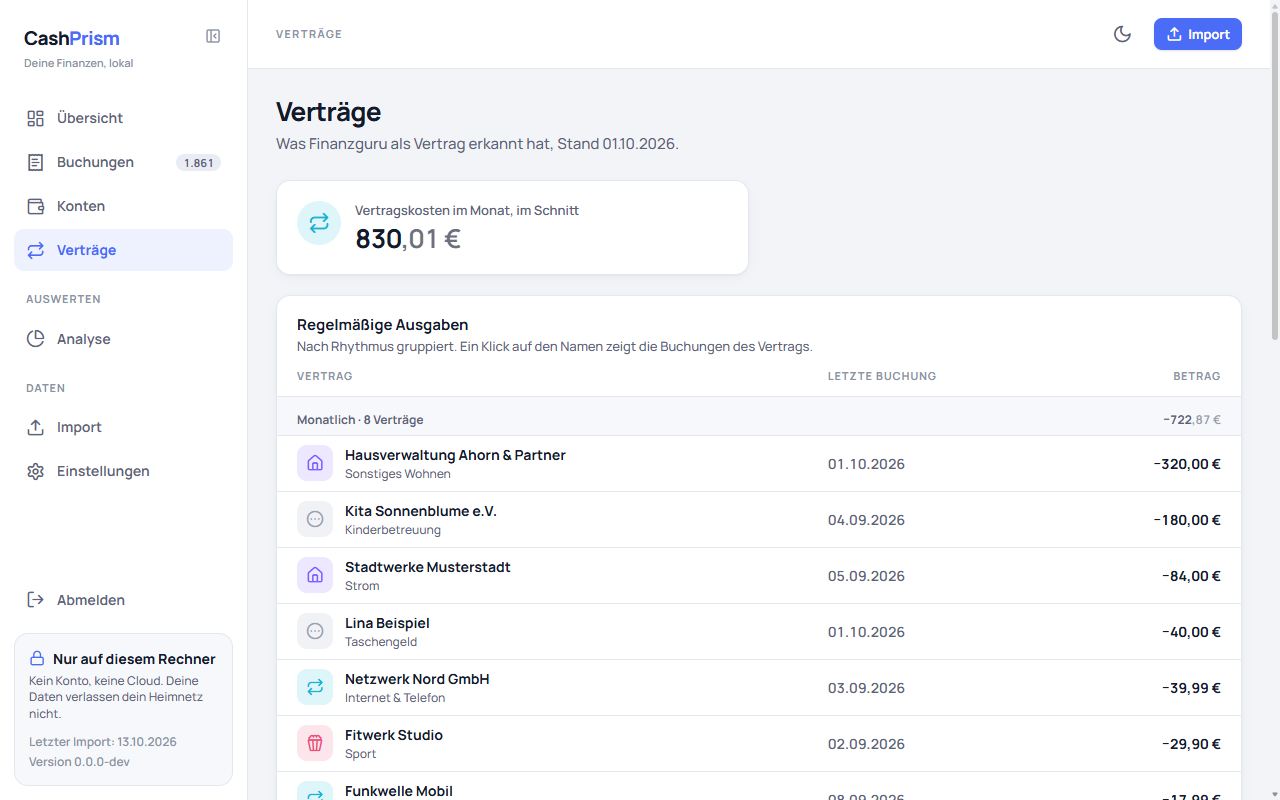
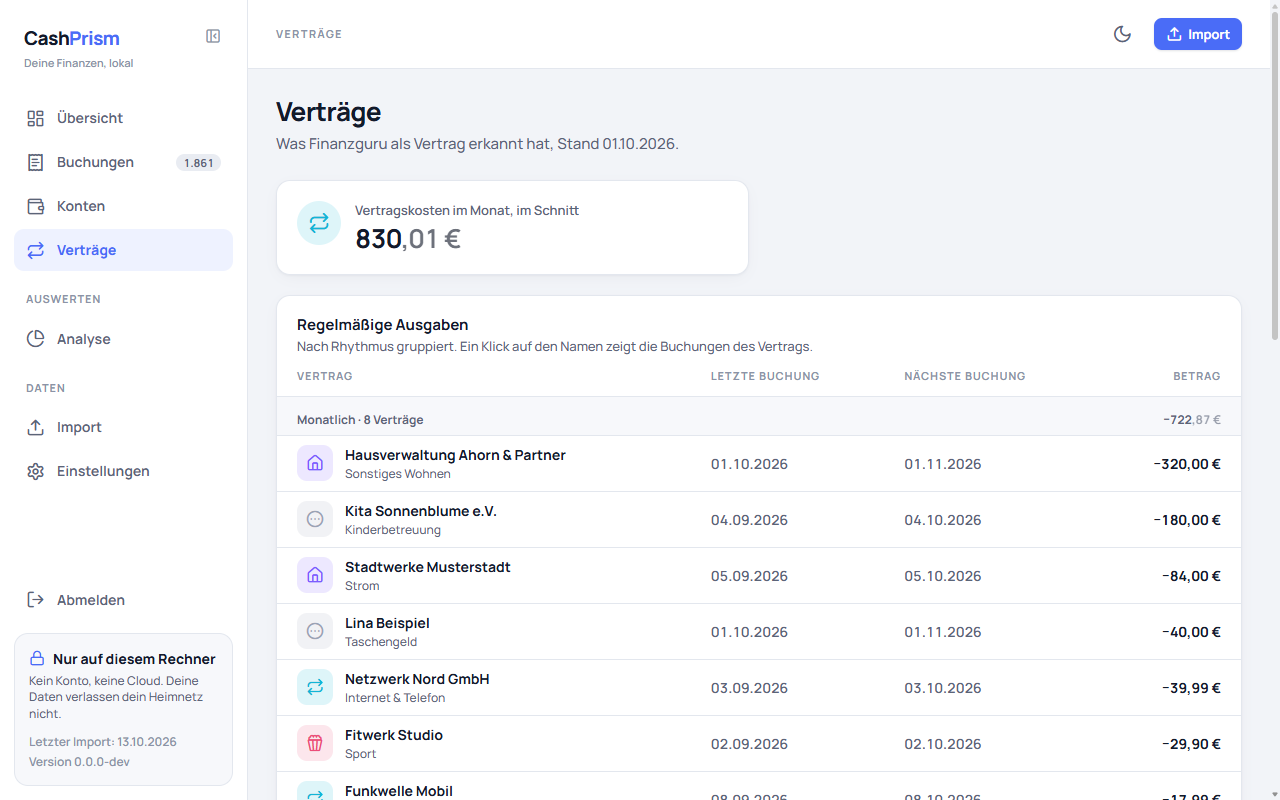
docs: describe contract forecasts (#171)
- Describe next booking, overdue marker and upcoming card in the guide
- Retake vertraege.png and add demnaechst.png to the recipe
- Describe forecasts and dismissals in ui.md and architecture.md
- Move the contracts page entry from 0.1.0 to Unreleased

diff --git a/docs/benutzung.md b/docs/benutzung.md
@@ -296,6 +296,15 @@ Buchung vom frei verfügbaren Einkommen ausnimmt, spielt hier keine Rolle.
   Buchungen dieser Kategorie in diesem Monat, Umbuchungen ausgeblendet; ihr
   *Saldo* ist dann genau der Betrag aus dem Ring. *Übrige* öffnet nichts, weil
   es für mehrere Kategorien steht.
+- **Demnächst:** die Vertragsbuchungen, die in den 30 Tagen nach dem Export
+  erwartet werden, mit Tag und Betrag — wie die Spalte *Nächste Buchung* auf
+  der Seite [Verträge](#die-verträge) sie berechnet. Überfällige Buchungen
+  stehen oben, die am längsten überfälligen zuerst, darunter der Rest nach
+  Datum. Auch eine Buchung, die schon fällig, aber noch nicht überfällig ist,
+  steht hier. Einen Hinweis ausblenden kannst du nur auf *Verträge*; *Alle
+  Verträge* führt dorthin.
+
+![Die Karte Demnächst mit den Vertragsbuchungen der nächsten 30 Tage, je mit Tag und Betrag](images/benutzung/demnaechst.png)
 
 ## Die Analyse
 
@@ -618,7 +627,7 @@ Schalter wieder aus, siehst du die Karten in ihrer neuen Ordnung.
 
 ## Die Verträge
 
-![Die Verträge: oben die durchschnittlichen Vertragskosten im Monat, darunter die regelmäßigen Ausgaben nach Rhythmus gruppiert](images/benutzung/vertraege.png)
+![Die Verträge: oben die durchschnittlichen Vertragskosten im Monat, darunter die regelmäßigen Ausgaben nach Rhythmus gruppiert, je Vertrag mit der nächsten erwarteten Buchung](images/benutzung/vertraege.png)
 
 *Verträge* zeigt, was Finanzguru in deinen Buchungen als Vertrag erkannt hat —
 dieselben Verträge, die du in der App siehst. CashPrism erkennt selbst nichts
@@ -634,15 +643,28 @@ und ändert nichts daran.
   einem eigenen Abschnitt, etwa dein Gehalt oder die monatliche Sparrate auf
   ein eigenes Konto.
 - **Eine Zeile** zeigt den Namen, die Unterkategorie, den Tag der letzten
-  Buchung und ihren Betrag. Ändert sich der Betrag eines Vertrags, steht hier
-  der neueste. Ein Klick auf den Namen öffnet die
-  [Buchungsliste](#die-buchungsliste) mit allen Buchungen dieses Vertrags.
+  Buchung, den Tag der nächsten und den Betrag der letzten. Ändert sich der
+  Betrag eines Vertrags, steht hier der neueste. Ein Klick auf den Namen
+  öffnet die [Buchungsliste](#die-buchungsliste) mit allen Buchungen dieses
+  Vertrags.
+- **Nächste Buchung:** der Tag der letzten Buchung plus der Rhythmus des
+  Vertrags in Kalendermonaten — bei einem monatlichen Vertrag vom 31. Januar
+  also der letzte Tag im Februar. CashPrism erwartet denselben Betrag wie bei
+  der letzten Buchung. Der Export enthält keine Vorhersage; das ist
+  berechnet, so wie es auch die App tut.
+- **Überfällig:** Ist die nächste Buchung mehr als 5 Tage nach ihrem Tag
+  ausgeblieben, gemessen am Datum des Exports, steht darunter *x Tage
+  überfällig*. Die 5 Tage gelten für jeden Rhythmus: Vertragsbuchungen kommen
+  oft ein paar Tage später als erwartet, aber kaum je später als vier Tage.
+  Mit dem ✕ im Hinweis blendest du ihn aus — nur für diesen erwarteten Tag.
+  Bleibt auch die übernächste Buchung aus, erscheint der Hinweis wieder.
 - **Vermutlich beendet** steht ganz unten und ist zugeklappt. Dort landet ein
   Vertrag, bei dem mindestens zwei fällige Zahlungen ausgeblieben sind: bei
   einem monatlichen Vertrag also, wenn die letzte Buchung mehr als zwei Monate
   vor dem Export liegt. Finanzguru meldet im Export kein Vertragsende, deshalb
   ist das nur abgeleitet. Kommt wieder eine Buchung, steht der Vertrag wieder
-  oben.
+  oben. Von einem vermutlich beendeten Vertrag erwartet CashPrism keine
+  Buchung mehr.
 
 **Einen Vertrag entfernen oder kündigen** machst du in Finanzguru. Entfernst du
 dort einen Vertrag, ist er nach dem nächsten Import auch hier verschwunden.
@@ -673,8 +695,9 @@ löschen noch wiederholen, und ein Import lässt sich nicht rückgängig machen.
 
 ![Die Einstellungen mit der Rückfrage vor dem Löschen aller Daten](images/benutzung/alle-daten-loeschen.png)
 
-Unter *Einstellungen* löscht *Alle Daten löschen* jede gespeicherte Buchung
-und jeden bisherigen Import. Danach baut ein neuer Import alles wieder auf, denn
+Unter *Einstellungen* löscht *Alle Daten löschen* jede gespeicherte Buchung,
+jeden bisherigen Import und jeden ausgeblendeten Hinweis auf einen
+[überfälligen Vertrag](#die-verträge). Danach baut ein neuer Import alles wieder auf, denn
 jeder Finanzguru-Export enthält deine ganze Historie. Das ist der Weg, wenn eine
 neue Version von CashPrism mehr aus dem Export speichert als die alte: löschen,
 dann den neuesten Export importieren.

diff --git a/docs/ui.md b/docs/ui.md
@@ -427,10 +427,10 @@ on their own, they broke three and one beside the drawer at 1280 px.
 
 `Pages/Contracts.razor` lists what Finanzguru recognised as a contract,
 described by each contract's newest booking — name, sub-category, day and
-amount — through `ContractOverviewReader`. The design has contracts as a tab of
-its reports, with a next payment date and a price-rise badge; both need a
-forecast, which is a later step, so the page stands on its own in the
-navigation instead.
+amount — and the day its next booking is expected, through
+`ContractOverviewReader`. The design has contracts as a tab of its reports,
+with a next payment date and a price-rise badge; the page stands on its own in
+the navigation instead, and has no price-rise badge.
 
 - **One tile on top**, the average monthly cost: every running spending
   contract spread over a month by its interval (`Contract.MonthlyAmountInCents`).
@@ -449,9 +449,28 @@ navigation instead.
   — so the heading says *Vermutlich*.
 - **The name links to the booking list** filtered to the contract,
   `/bookings?contract=<id>`.
+- **The next booking** is a column of its own, *Nächste Buchung*, holding the
+  date only: the amount expected is the newest booking's, which the amount
+  column already shows. The rule is `Contract.NextBookingOn`, the newest
+  booking plus one interval in calendar months; the folded section of
+  presumably ended contracts has no such column.
+- **The overdue marker** sits under that date, a danger badge reading *x Tage
+  überfällig* once the date lies more than `Contract.OverdueToleranceInDays`
+  before the export date. Its ✕ dismisses it through `OverdueDismisser`, stored
+  per contract and expected date in `DismissedOverdues` — CashPrism's own
+  state, since the export knows nothing of it. `ContractForecastReader` drops
+  the marker for a dismissed date, so the next overdue date shows it again.
 
 Without an import the page shows an empty state pointing at the import; with
 an import that carries no contract, an empty state saying so.
+
+The overview reads the same forecasts through `UpcomingContractsReader` and
+lists them under its panels in `Overview/UpcomingContractsCard.razor`,
+*Demnächst*: every next booking expected up to 30 days after the export date,
+including one already due but within the tolerance, and every overdue one whose
+marker was not dismissed — overdue first, the rest by date. The card only
+reads; a marker is dismissed on the contracts page, which its head links to.
+Forecast rows never enter the booking list, which mirrors the export.
 
 ## The import page
 
@@ -562,8 +581,8 @@ and nothing happened.
 ## The settings page
 
 `Pages/Settings.razor` at `/settings` holds one card today: *Daten*, with
-*Alle Daten löschen*. It deletes every booking, raw row and import run through
-`IDataEraser`, which compacts the SQLite file afterwards (see
+*Alle Daten löschen*. It deletes every booking, raw row, import run and
+dismissed overdue marker through `IDataEraser`, which compacts the SQLite file afterwards (see
 `Persistence/DataEraser.cs`). The account groups stay unless the checkbox
 *Kontogruppen ebenfalls löschen* in the question is ticked; it is unticked
 every time the question is asked, since the groups are the one thing no export

diff --git a/CHANGELOG.md b/CHANGELOG.md
@@ -51,6 +51,22 @@ releases and the minor version is bumped for every notable change.
   between and within them. A new account joins the topmost group. The groups
   survive deleting all data, so a re-import puts every account back where it
   was, unless *Kontogruppen ebenfalls löschen* is ticked when deleting.
+- *Verträge*, a new page, lists the contracts Finanzguru recognised in your
+  bookings, each with the name, sub-category and amount of its newest booking.
+  Spending contracts are grouped by interval with their count and sum; income
+  and transfers between your own accounts have a section each. Above them
+  stands what your contracts cost in an average month, a yearly one counting
+  with a twelfth. A contract with at least two payments missing is listed,
+  folded, as *Vermutlich beendet* and left out of that cost — the export says
+  nothing about a contract ending, so this is derived from the bookings. A
+  click on a contract opens the booking list with its bookings.
+- *Verträge* shows, for every running contract, the day its next booking is
+  expected: the newest booking plus the contract's interval. When that day is
+  more than 5 days past at the export date, the contract is marked *x Tage
+  überfällig*. The marker can be dismissed for that one expected day and comes
+  back if the next booking is missed too; deleting all data removes dismissals.
+- The overview lists under *Demnächst* the contract bookings expected in the
+  30 days after the export, overdue ones first.
 
 ## [0.1.0] - 2026-10-10
 
@@ -269,15 +285,6 @@ releases and the minor version is bumped for every notable change.
   counts the way the overview does. A category's colour follows its rank over
   the last twelve months rather than its name, so it stays the same when you
   switch periods and still works for a category Finanzguru renames.
-- *Verträge*, a new page, lists the contracts Finanzguru recognised in your
-  bookings, each with the name, sub-category and amount of its newest booking.
-  Spending contracts are grouped by interval with their count and sum; income
-  and transfers between your own accounts have a section each. Above them
-  stands what your contracts cost in an average month, a yearly one counting
-  with a twelfth. A contract with at least two payments missing is listed,
-  folded, as *Vermutlich beendet* and left out of that cost — the export says
-  nothing about a contract ending, so this is derived from the bookings. A
-  click on a contract opens the booking list with its bookings.
 
 ### Changed
 

diff --git a/docs/architecture.md b/docs/architecture.md
@@ -53,7 +53,9 @@ test` passes over it. Today that is `XlsxTestWorkbook`, which builds a
 Finanzguru-shaped `.xlsx` in memory, `FinanzguruTestRow`, which fills one data
 row of it, and the stand-ins the import use case runs on in a test:
 `FakeImportSource`, `FakeImportStore` and `FixedClock`; `FakeAccountGroupStore`,
-which keeps the account groups the way the database would; `FakeCashFlowReader`,
+which keeps the account groups the way the database would; `FakeContractReader`
+and `FakeDismissedOverdueStore`, which hand the contract use cases fixed
+contracts and keep dismissed overdue markers; `FakeCashFlowReader`,
 which hands the overview and the analysis fixed sums; and `TestBookings`,
 which builds a booking with plain values for every field a test does not name;
 and `DemoSample`, which embeds the committed demo export

diff --git a/docs/releasing.md b/docs/releasing.md
@@ -167,6 +167,7 @@ and show nothing but invented data:
 | `bisherige-importe.png` | *Import* reloaded, scrolled down to *Bisherige Importe* |
 | `navigation.png` | *Übersicht*, the pointer resting on *Analyse* in the navigation |
 | `uebersicht.png` | *Übersicht*, the pointer on a point of the chart so its tooltip shows |
+| `demnaechst.png` | *Übersicht*, scrolled down so *Demnächst* fills the page area |
 | `analyse.png` | *Analyse* with *6 Monate* |
 | `analyse-empfaenger.png` | *Analyse* with *6 Monate*, scrolled down so *Hier geht am meisten hin* fills the page area |
 | `buchungsliste.png` | *Buchungen* with the details of one booking open |
